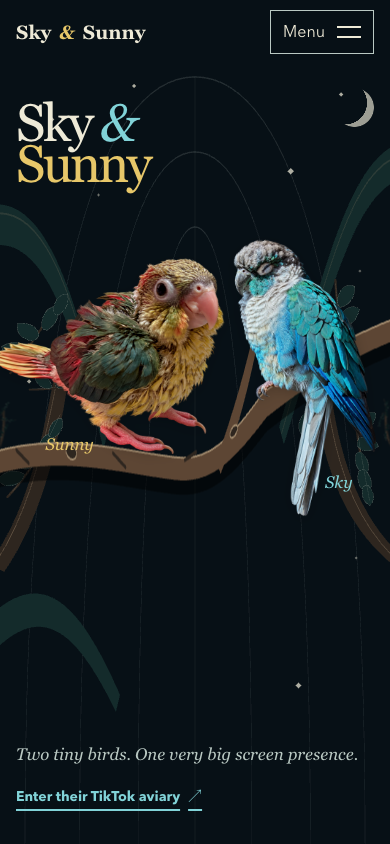
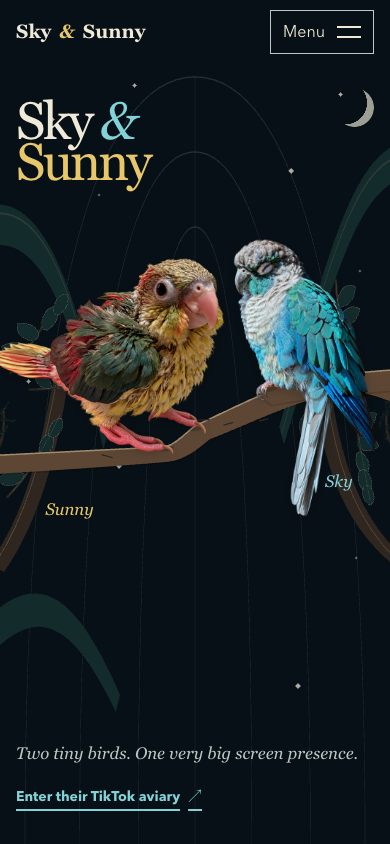
Join hero birds on one shared branch

diff --git a/index.html b/index.html
@@ -109,10 +109,10 @@
         <div class="residents" aria-label="Portraits of Sunny and Sky">
           <figure class="resident resident-sunny" data-face="sunny">
             <svg class="resident-support shared-perch" data-support-svg="sunny" viewBox="0 0 1366 1152" aria-hidden="true" focusable="false">
-              <defs><clipPath id="sunny-support-clip" clipPathUnits="userSpaceOnUse"><path d="M-600 1140C180 1100 650 1120 980 1095C1040 1080 1100 1010 1150 975C1330 925 1530 907 1800 900L1800 1000C1540 1008 1360 1025 1230 1052C1160 1110 1090 1170 990 1180C650 1210 180 1192 -600 1230Z"></path></clipPath></defs>
-              <path class="support-shadow" transform="translate(-5 10)" d="M-600 1140C180 1100 650 1120 980 1095C1040 1080 1100 1010 1150 975C1330 925 1530 907 1800 900L1800 1000C1540 1008 1360 1025 1230 1052C1160 1110 1090 1170 990 1180C650 1210 180 1192 -600 1230Z"></path>
-              <path class="support-wood" d="M-600 1140C180 1100 650 1120 980 1095C1040 1080 1100 1010 1150 975C1330 925 1530 907 1800 900L1800 1000C1540 1008 1360 1025 1230 1052C1160 1110 1090 1170 990 1180C650 1210 180 1192 -600 1230Z"></path>
-              <path class="support-boundary" data-support-contour="sunny" data-support-bird=".resident-sunny .resident-cutout" data-support-anchors="980,1095;1150,975" d="M-600 1140C180 1100 650 1120 980 1095C1040 1080 1100 1010 1150 975C1330 925 1530 907 1800 900"></path>
+              <defs><clipPath id="sunny-support-clip" clipPathUnits="userSpaceOnUse"><path d="M-2200 1280C-1200 1200 -300 1160 980 1095C1040 1080 1100 1010 1150 975C1420 850 1850 620 2100 670C2300 760 2450 850 2600 926L2600 1010C2450 930 2300 840 2100 790C1850 760 1500 950 1230 1052C1160 1110 1090 1170 990 1180C300 1240 -900 1300 -2200 1380Z"></path></clipPath></defs>
+              <path class="support-shadow" transform="translate(-5 10)" d="M-2200 1280C-1200 1200 -300 1160 980 1095C1040 1080 1100 1010 1150 975C1420 850 1850 620 2100 670C2300 760 2450 850 2600 926L2600 1010C2450 930 2300 840 2100 790C1850 760 1500 950 1230 1052C1160 1110 1090 1170 990 1180C300 1240 -900 1300 -2200 1380Z"></path>
+              <path class="support-wood" data-shared-support="sunny" d="M-2200 1280C-1200 1200 -300 1160 980 1095C1040 1080 1100 1010 1150 975C1420 850 1850 620 2100 670C2300 760 2450 850 2600 926L2600 1010C2450 930 2300 840 2100 790C1850 760 1500 950 1230 1052C1160 1110 1090 1170 990 1180C300 1240 -900 1300 -2200 1380Z"></path>
+              <path class="support-boundary" data-support-contour="sunny" data-support-bird=".resident-sunny .resident-cutout" data-support-anchors="980,1095;1150,975" d="M-2200 1280C-1200 1200 -300 1160 980 1095C1040 1080 1100 1010 1150 975C1420 850 1850 620 2100 670C2300 760 2450 850 2600 926"></path>
               <path class="support-contact-shadow" clip-path="url(#sunny-support-clip)" d="M934 1103Q974 1119 1018 1101M1110 990Q1148 1002 1190 982"></path>
               <path class="support-fissure" d="M620 1140L680 1156M1310 972L1362 958M1510 950L1560 936"></path>
             </svg>
@@ -121,10 +121,10 @@
           </figure>
           <figure class="resident resident-sky" data-face="sky">
             <svg class="resident-support" data-support-svg="sky" viewBox="0 0 1024 1536" aria-hidden="true" focusable="false">
-              <defs><clipPath id="sky-support-clip" clipPathUnits="userSpaceOnUse"><path d="M-500 1050C-120 990 150 875 350 824C620 760 980 730 1450 710L1450 825C980 842 650 870 378 924C145 978 -130 1080 -500 1150Z"></path></clipPath></defs>
-              <path class="support-shadow" transform="translate(-5 10)" d="M-500 1050C-120 990 150 875 350 824C620 760 980 730 1450 710L1450 825C980 842 650 870 378 924C145 978 -130 1080 -500 1150Z"></path>
-              <path class="support-wood" d="M-500 1050C-120 990 150 875 350 824C620 760 980 730 1450 710L1450 825C980 842 650 870 378 924C145 978 -130 1080 -500 1150Z"></path>
-              <path class="support-boundary" data-support-contour="sky" data-support-bird=".resident-sky .resident-cutout" data-support-anchors="350,824" d="M-500 1050C-120 990 150 875 350 824C620 760 980 730 1450 710"></path>
+              <defs><clipPath id="sky-support-clip" clipPathUnits="userSpaceOnUse"><path d="M300 850C320 840 340 830 350 824C620 760 980 730 1450 710L1450 825C980 842 650 870 378 924C340 900 320 875 300 850Z"></path></clipPath></defs>
+              <path class="support-shadow" transform="translate(-5 10)" d="M300 850C320 840 340 830 350 824C620 760 980 730 1450 710L1450 825C980 842 650 870 378 924C340 900 320 875 300 850Z"></path>
+              <path class="support-wood" data-shared-support="sky" d="M300 850C320 840 340 830 350 824C620 760 980 730 1450 710L1450 825C980 842 650 870 378 924C340 900 320 875 300 850Z"></path>
+              <path class="support-boundary" data-support-contour="sky" data-support-bird=".resident-sky .resident-cutout" data-support-anchors="350,824" d="M300 850C320 840 340 830 350 824C620 760 980 730 1450 710"></path>
               <path class="support-contact-shadow" clip-path="url(#sky-support-clip)" d="M302 835Q346 852 394 832"></path>
               <path class="support-fissure" d="M-30 1008L34 1004M650 820L716 808M1060 772L1114 766"></path>
             </svg>

diff --git a/sandbox/night-aviary/index.html b/sandbox/night-aviary/index.html
@@ -109,10 +109,10 @@
         <div class="residents" aria-label="Portraits of Sunny and Sky">
           <figure class="resident resident-sunny" data-face="sunny">
             <svg class="resident-support shared-perch" data-support-svg="sunny" viewBox="0 0 1366 1152" aria-hidden="true" focusable="false">
-              <defs><clipPath id="sunny-support-clip" clipPathUnits="userSpaceOnUse"><path d="M-600 1140C180 1100 650 1120 980 1095C1040 1080 1100 1010 1150 975C1330 925 1530 907 1800 900L1800 1000C1540 1008 1360 1025 1230 1052C1160 1110 1090 1170 990 1180C650 1210 180 1192 -600 1230Z"></path></clipPath></defs>
-              <path class="support-shadow" transform="translate(-5 10)" d="M-600 1140C180 1100 650 1120 980 1095C1040 1080 1100 1010 1150 975C1330 925 1530 907 1800 900L1800 1000C1540 1008 1360 1025 1230 1052C1160 1110 1090 1170 990 1180C650 1210 180 1192 -600 1230Z"></path>
-              <path class="support-wood" d="M-600 1140C180 1100 650 1120 980 1095C1040 1080 1100 1010 1150 975C1330 925 1530 907 1800 900L1800 1000C1540 1008 1360 1025 1230 1052C1160 1110 1090 1170 990 1180C650 1210 180 1192 -600 1230Z"></path>
-              <path class="support-boundary" data-support-contour="sunny" data-support-bird=".resident-sunny .resident-cutout" data-support-anchors="980,1095;1150,975" d="M-600 1140C180 1100 650 1120 980 1095C1040 1080 1100 1010 1150 975C1330 925 1530 907 1800 900"></path>
+              <defs><clipPath id="sunny-support-clip" clipPathUnits="userSpaceOnUse"><path d="M-2200 1280C-1200 1200 -300 1160 980 1095C1040 1080 1100 1010 1150 975C1420 850 1850 620 2100 670C2300 760 2450 850 2600 926L2600 1010C2450 930 2300 840 2100 790C1850 760 1500 950 1230 1052C1160 1110 1090 1170 990 1180C300 1240 -900 1300 -2200 1380Z"></path></clipPath></defs>
+              <path class="support-shadow" transform="translate(-5 10)" d="M-2200 1280C-1200 1200 -300 1160 980 1095C1040 1080 1100 1010 1150 975C1420 850 1850 620 2100 670C2300 760 2450 850 2600 926L2600 1010C2450 930 2300 840 2100 790C1850 760 1500 950 1230 1052C1160 1110 1090 1170 990 1180C300 1240 -900 1300 -2200 1380Z"></path>
+              <path class="support-wood" data-shared-support="sunny" d="M-2200 1280C-1200 1200 -300 1160 980 1095C1040 1080 1100 1010 1150 975C1420 850 1850 620 2100 670C2300 760 2450 850 2600 926L2600 1010C2450 930 2300 840 2100 790C1850 760 1500 950 1230 1052C1160 1110 1090 1170 990 1180C300 1240 -900 1300 -2200 1380Z"></path>
+              <path class="support-boundary" data-support-contour="sunny" data-support-bird=".resident-sunny .resident-cutout" data-support-anchors="980,1095;1150,975" d="M-2200 1280C-1200 1200 -300 1160 980 1095C1040 1080 1100 1010 1150 975C1420 850 1850 620 2100 670C2300 760 2450 850 2600 926"></path>
               <path class="support-contact-shadow" clip-path="url(#sunny-support-clip)" d="M934 1103Q974 1119 1018 1101M1110 990Q1148 1002 1190 982"></path>
               <path class="support-fissure" d="M620 1140L680 1156M1310 972L1362 958M1510 950L1560 936"></path>
             </svg>
@@ -121,10 +121,10 @@
           </figure>
           <figure class="resident resident-sky" data-face="sky">
             <svg class="resident-support" data-support-svg="sky" viewBox="0 0 1024 1536" aria-hidden="true" focusable="false">
-              <defs><clipPath id="sky-support-clip" clipPathUnits="userSpaceOnUse"><path d="M-500 1050C-120 990 150 875 350 824C620 760 980 730 1450 710L1450 825C980 842 650 870 378 924C145 978 -130 1080 -500 1150Z"></path></clipPath></defs>
-              <path class="support-shadow" transform="translate(-5 10)" d="M-500 1050C-120 990 150 875 350 824C620 760 980 730 1450 710L1450 825C980 842 650 870 378 924C145 978 -130 1080 -500 1150Z"></path>
-              <path class="support-wood" d="M-500 1050C-120 990 150 875 350 824C620 760 980 730 1450 710L1450 825C980 842 650 870 378 924C145 978 -130 1080 -500 1150Z"></path>
-              <path class="support-boundary" data-support-contour="sky" data-support-bird=".resident-sky .resident-cutout" data-support-anchors="350,824" d="M-500 1050C-120 990 150 875 350 824C620 760 980 730 1450 710"></path>
+              <defs><clipPath id="sky-support-clip" clipPathUnits="userSpaceOnUse"><path d="M300 850C320 840 340 830 350 824C620 760 980 730 1450 710L1450 825C980 842 650 870 378 924C340 900 320 875 300 850Z"></path></clipPath></defs>
+              <path class="support-shadow" transform="translate(-5 10)" d="M300 850C320 840 340 830 350 824C620 760 980 730 1450 710L1450 825C980 842 650 870 378 924C340 900 320 875 300 850Z"></path>
+              <path class="support-wood" data-shared-support="sky" d="M300 850C320 840 340 830 350 824C620 760 980 730 1450 710L1450 825C980 842 650 870 378 924C340 900 320 875 300 850Z"></path>
+              <path class="support-boundary" data-support-contour="sky" data-support-bird=".resident-sky .resident-cutout" data-support-anchors="350,824" d="M300 850C320 840 340 830 350 824C620 760 980 730 1450 710"></path>
               <path class="support-contact-shadow" clip-path="url(#sky-support-clip)" d="M302 835Q346 852 394 832"></path>
               <path class="support-fissure" d="M-30 1008L34 1004M650 820L716 808M1060 772L1114 766"></path>
             </svg>

diff --git a/styles.css b/styles.css
@@ -464,8 +464,9 @@ h1 i {
 }
 
 .resident-sunny figcaption {
+  top: calc(100% + 2.5rem);
   left: 18%;
-  bottom: -2%;
+  bottom: auto;
   color: var(--color-sunny);
 }
 
@@ -544,6 +545,7 @@ h1 i {
 }
 
 .habitat-branch .branch-shadow {
+  fill: none;
   stroke: var(--color-shadow);
   stroke-width: calc(var(--line-branch) + var(--space-4));
 }
@@ -1071,7 +1073,7 @@ h3 {
 
   .resident-sunny figcaption {
     left: 22%;
-    bottom: 0;
+    bottom: auto;
   }
 
   .resident-sky figcaption {
